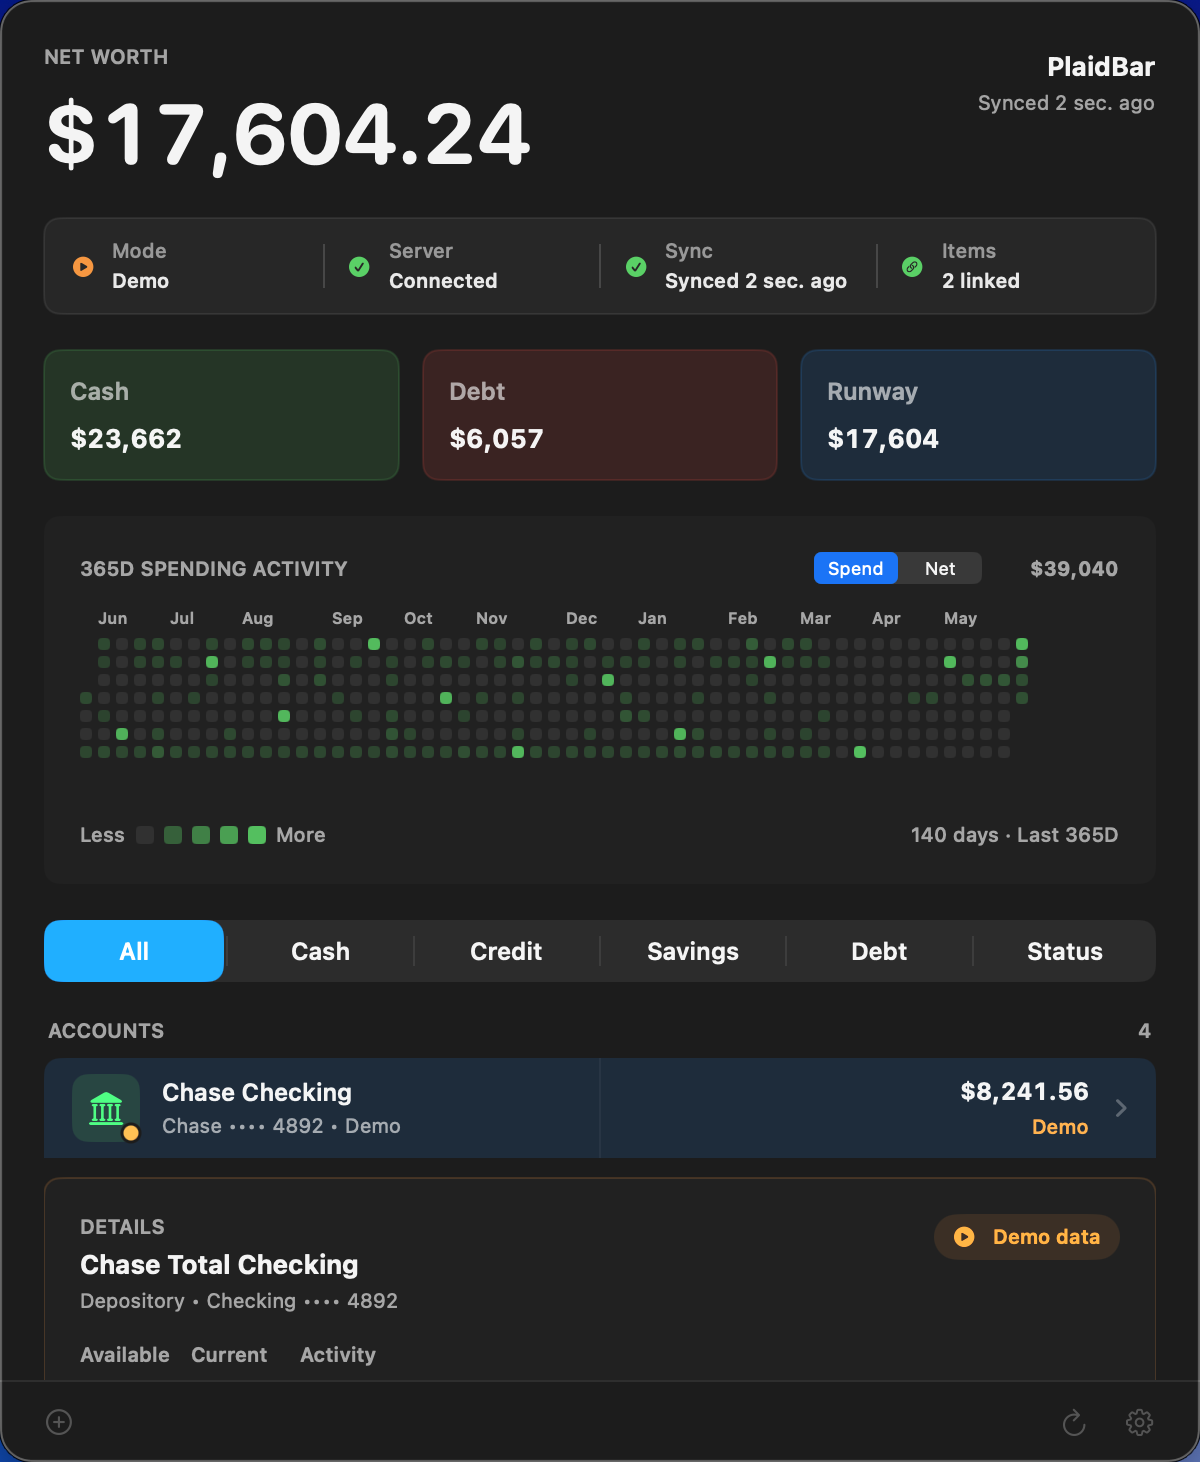
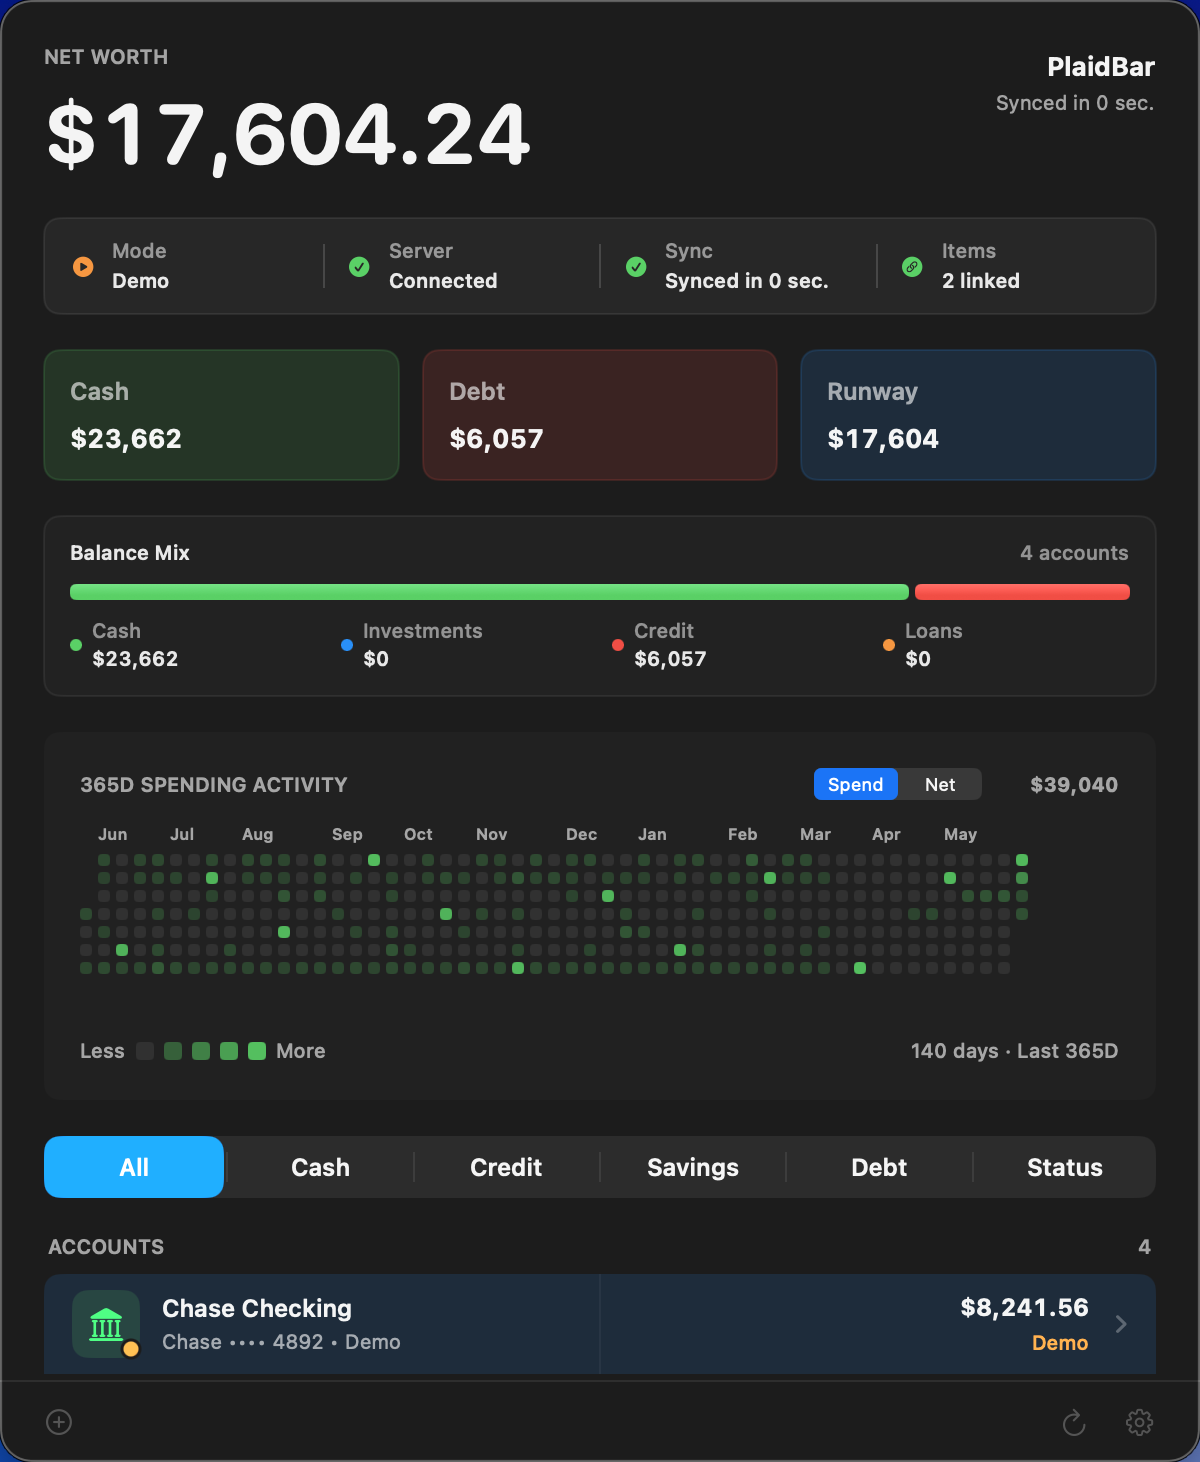
feat: show dashboard balance mix

diff --git a/Sources/PlaidBar/Views/MainPopover.swift b/Sources/PlaidBar/Views/MainPopover.swift
@@ -42,6 +42,9 @@ struct MainPopover: View {
                         DashboardSummaryCards()
                             .environment(appState)
 
+                        BalanceCompositionStrip()
+                            .environment(appState)
+
                         BalanceActivityHeatmap(transactions: appState.transactions)
 
                         DashboardFilterBar(selection: filterBinding)
@@ -308,6 +311,132 @@ private struct MetricCard: View {
             RoundedRectangle(cornerRadius: 8)
                 .stroke(tint.opacity(0.16), lineWidth: 1)
         }
+    }
+}
+
+private struct BalanceCompositionStrip: View {
+    @Environment(AppState.self) private var appState
+
+    private var segments: [BalanceCompositionSegment] {
+        [
+            BalanceCompositionSegment(
+                title: "Cash",
+                value: sum(for: .depository),
+                tint: SemanticColors.available
+            ),
+            BalanceCompositionSegment(
+                title: "Investments",
+                value: sum(for: .investment),
+                tint: SemanticColors.brand
+            ),
+            BalanceCompositionSegment(
+                title: "Credit",
+                value: debt(for: .credit),
+                tint: SemanticColors.creditDebt
+            ),
+            BalanceCompositionSegment(
+                title: "Loans",
+                value: debt(for: .loan),
+                tint: SemanticColors.warning
+            )
+        ]
+    }
+
+    private var activeSegments: [BalanceCompositionSegment] {
+        segments.filter { $0.value > 0 }
+    }
+
+    private var total: Double {
+        max(activeSegments.reduce(0) { $0 + $1.value }, 1)
+    }
+
+    var body: some View {
+        VStack(alignment: .leading, spacing: 9) {
+            HStack {
+                Text("Balance Mix")
+                    .font(.caption.weight(.semibold))
+                Spacer()
+                Text("\(appState.accountCount) accounts")
+                    .microText()
+                    .foregroundStyle(.secondary)
+            }
+
+            GeometryReader { proxy in
+                HStack(spacing: 3) {
+                    ForEach(activeSegments) { segment in
+                        RoundedRectangle(cornerRadius: 3)
+                            .fill(segment.tint.gradient)
+                            .frame(width: segmentWidth(segment, totalWidth: proxy.size.width))
+                            .accessibilityLabel("\(segment.title), \(Formatters.currency(segment.value, format: .compact))")
+                    }
+                }
+            }
+            .frame(height: 8)
+
+            HStack(spacing: 12) {
+                ForEach(segments) { segment in
+                    BalanceCompositionLegend(segment: segment)
+                }
+            }
+        }
+        .padding(.horizontal, 13)
+        .padding(.vertical, 12)
+        .background(.thinMaterial, in: RoundedRectangle(cornerRadius: 8))
+        .overlay {
+            RoundedRectangle(cornerRadius: 8)
+                .stroke(Color.primary.opacity(0.07), lineWidth: 1)
+        }
+        .accessibilityElement(children: .contain)
+    }
+
+    private func segmentWidth(_ segment: BalanceCompositionSegment, totalWidth: CGFloat) -> CGFloat {
+        let gaps = CGFloat(max(activeSegments.count - 1, 0)) * 3
+        let availableWidth = max(totalWidth - gaps, 0)
+        return max(availableWidth * CGFloat(segment.value / total), 6)
+    }
+
+    private func sum(for type: AccountType) -> Double {
+        appState.accounts
+            .filter { $0.type == type }
+            .reduce(0) { $0 + max($1.balances.effectiveBalance, 0) }
+    }
+
+    private func debt(for type: AccountType) -> Double {
+        appState.accounts
+            .filter { $0.type == type }
+            .reduce(0) { $0 + abs($1.balances.current ?? 0) }
+    }
+}
+
+private struct BalanceCompositionSegment: Identifiable {
+    let title: String
+    let value: Double
+    let tint: Color
+
+    var id: String { title }
+}
+
+private struct BalanceCompositionLegend: View {
+    let segment: BalanceCompositionSegment
+
+    var body: some View {
+        HStack(spacing: 5) {
+            Circle()
+                .fill(segment.tint)
+                .frame(width: 6, height: 6)
+            VStack(alignment: .leading, spacing: 1) {
+                Text(segment.title)
+                    .microText()
+                    .foregroundStyle(.secondary)
+                    .lineLimit(1)
+                Text(Formatters.currency(segment.value, format: .compact))
+                    .font(.caption2.weight(.semibold))
+                    .monospacedDigit()
+                    .lineLimit(1)
+                    .minimumScaleFactor(0.78)
+            }
+        }
+        .frame(maxWidth: .infinity, alignment: .leading)
     }
 }
 